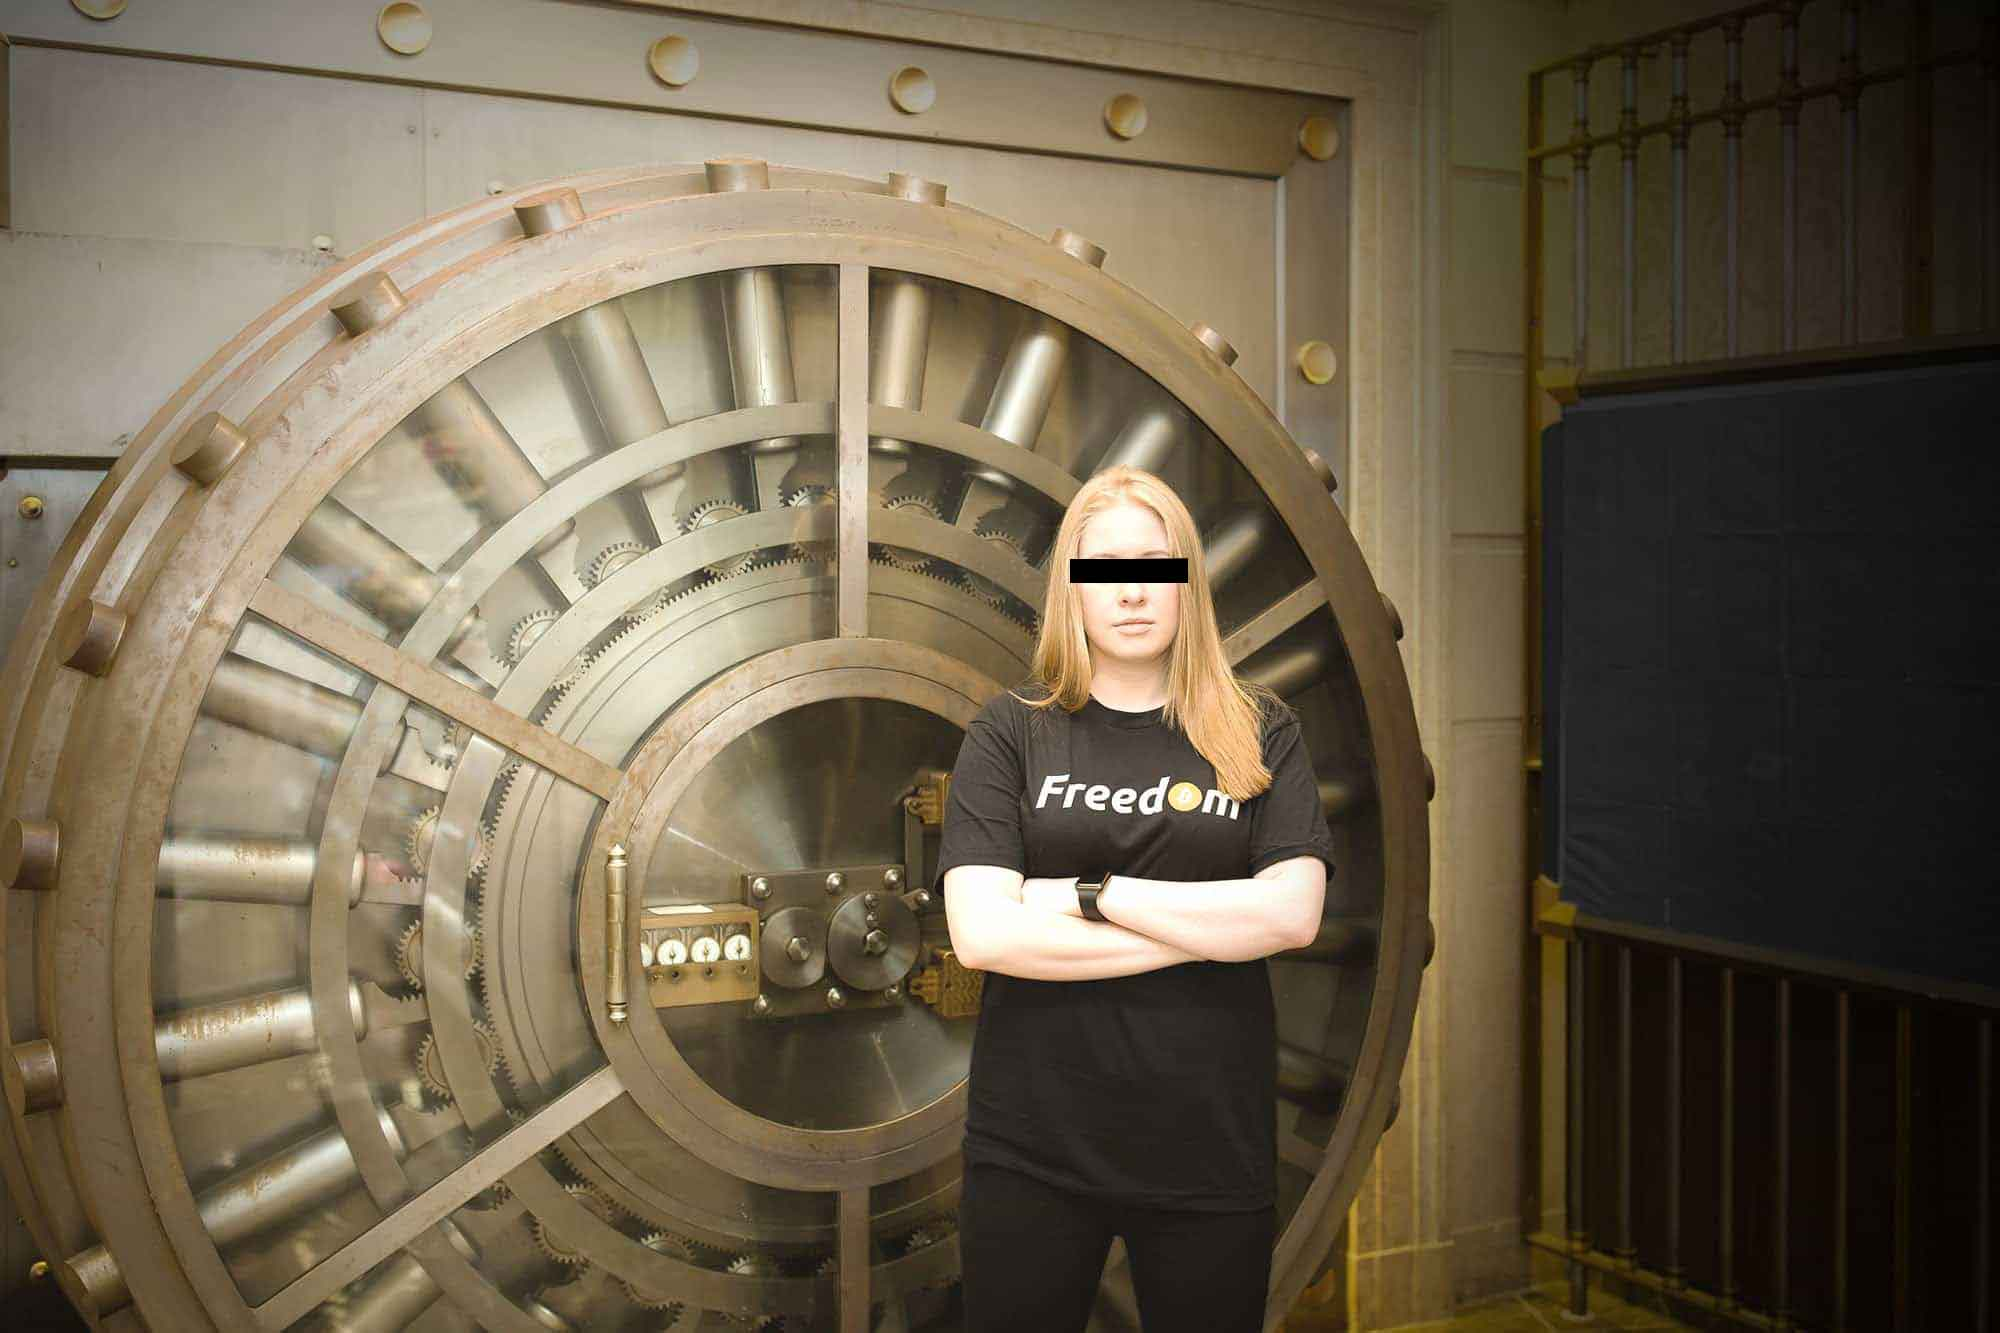
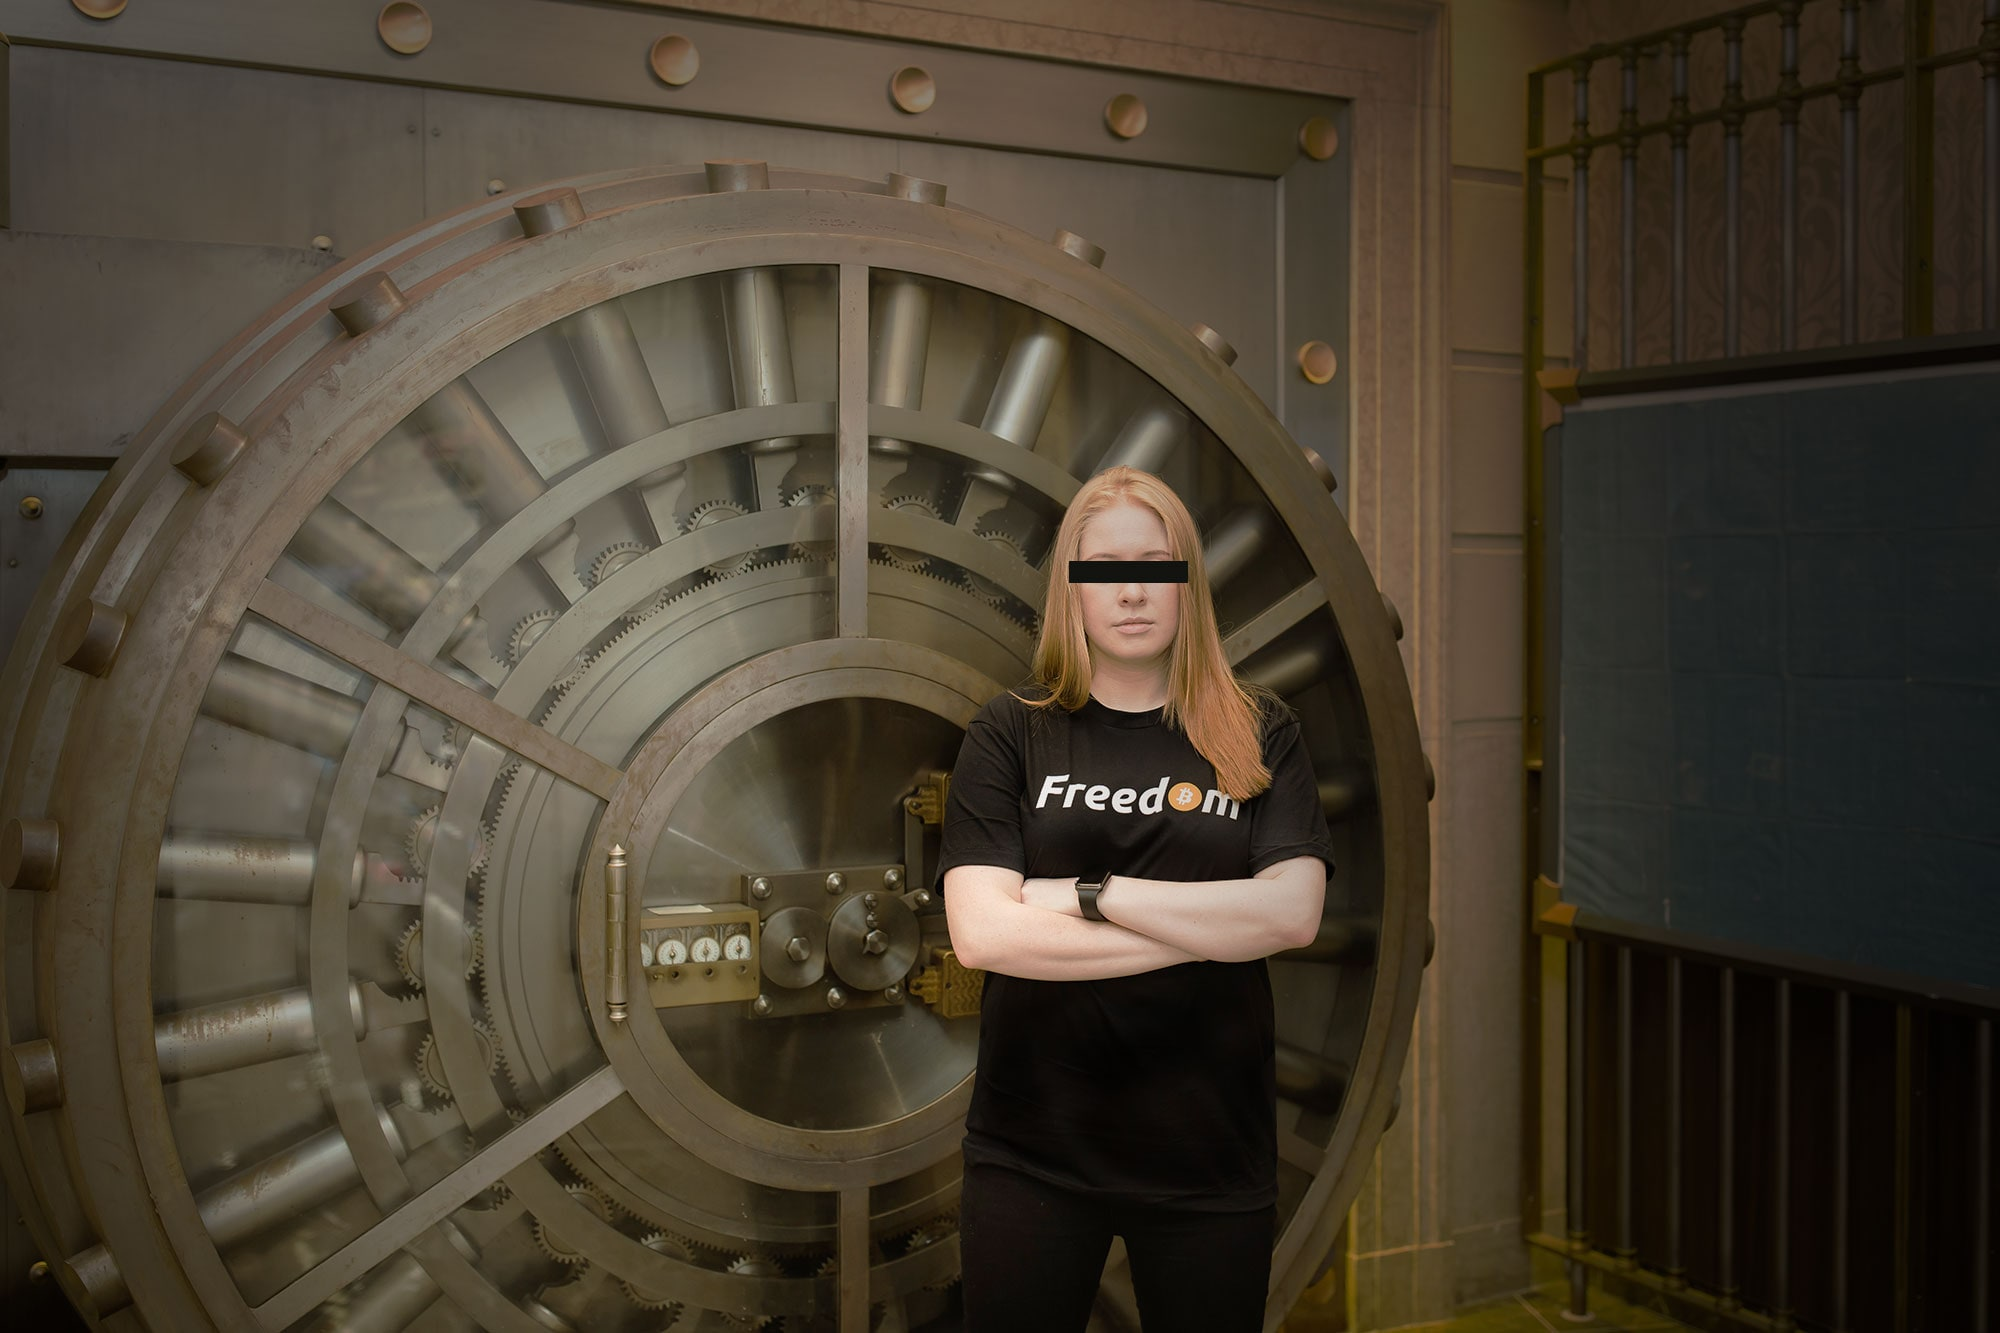
higher res main image

diff --git a/_site/index.html b/_site/index.html
@@ -229,7 +229,7 @@ height="0" width="0" style="display:none;visibility:hidden"></iframe></noscript>
 <main>
     <section class="slider-area">
     <div class="slider-active">
-        <div class="single-slider slider-bg d-flex align-items-center" style="background: url(/assets/img/landing/blank.jpg) center center no-repeat; background-size: cover;" data-echo-background="/assets/img/landing/kiara-bickers-safe-censor.jpg">
+        <div class="single-slider slider-bg d-flex align-items-center" style="background: url(/assets/img/landing/kiara-bickers-safe-censor.jpg) center center no-repeat; background-size: cover;" data-echo-background="/assets/img/landing/blank.jpg">
             <div class="container">
                 <div class="row">
                     <div class="col-xl-12">

diff --git a/_includes/slider.html b/_includes/slider.html
@@ -1,6 +1,6 @@
 <section class="slider-area">
     <div class="slider-active">
-        <div class="single-slider slider-bg d-flex align-items-center" style="background: url({{site.baseurl}}/assets/img/landing/blank.jpg) center center no-repeat; background-size: cover;" data-echo-background="{{site.baseurl}}/assets/img/landing/kiara-bickers-safe-censor.jpg">
+        <div class="single-slider slider-bg d-flex align-items-center" style="background: url({{site.baseurl}}/assets/img/landing/kiara-bickers-safe-censor.jpg) center center no-repeat; background-size: cover;" data-echo-background="{{site.baseurl}}/assets/img/landing/blank.jpg">
             <div class="container">
                 <div class="row">
                     <div class="col-xl-12">

diff --git a/_site/assets/css/style.css b/_site/assets/css/style.css
@@ -487,7 +487,7 @@ p-blog {
 	width: 100%;
 	height: 100%;
 	background: #000;
-	opacity: .7;
+	opacity: .5;
 }
 .slider-content {
 	max-width: 550px;

diff --git a/assets/css/style.css b/assets/css/style.css
@@ -487,7 +487,7 @@ p-blog {
 	width: 100%;
 	height: 100%;
 	background: #000;
-	opacity: .7;
+	opacity: .5;
 }
 .slider-content {
 	max-width: 550px;
